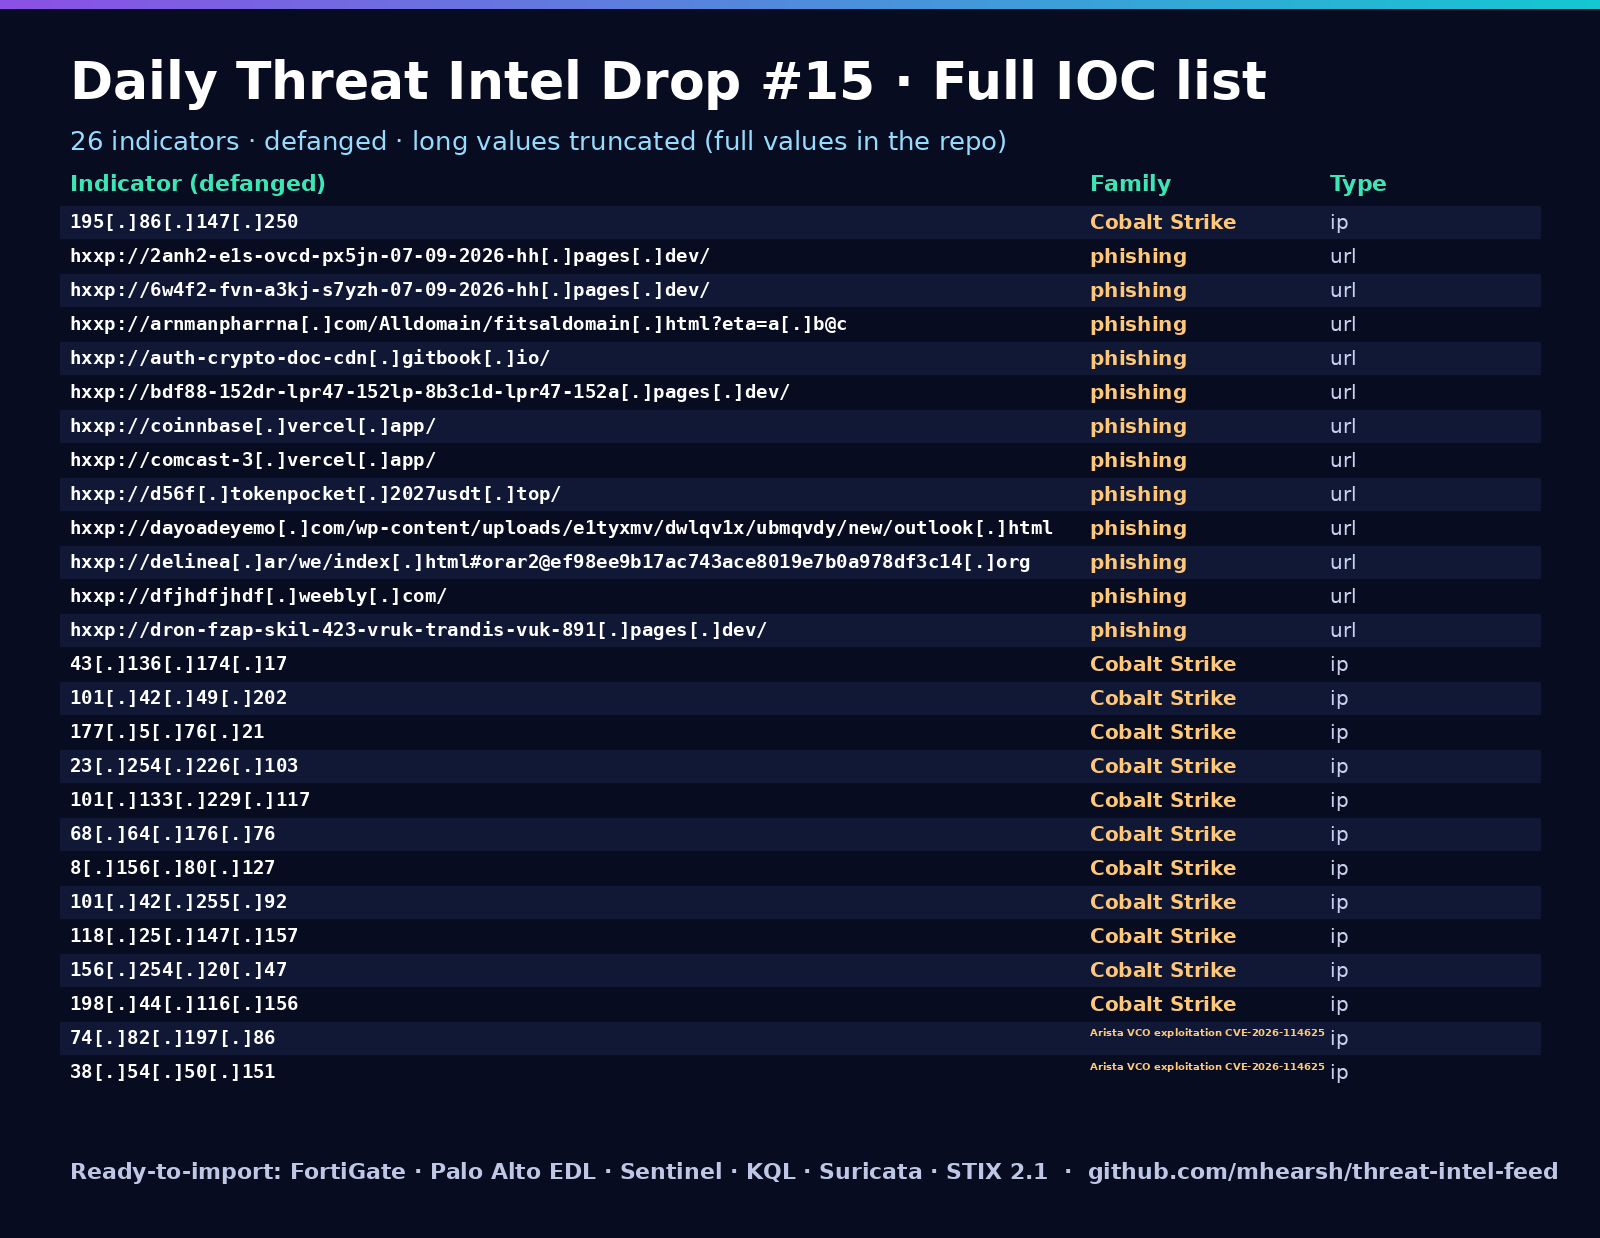
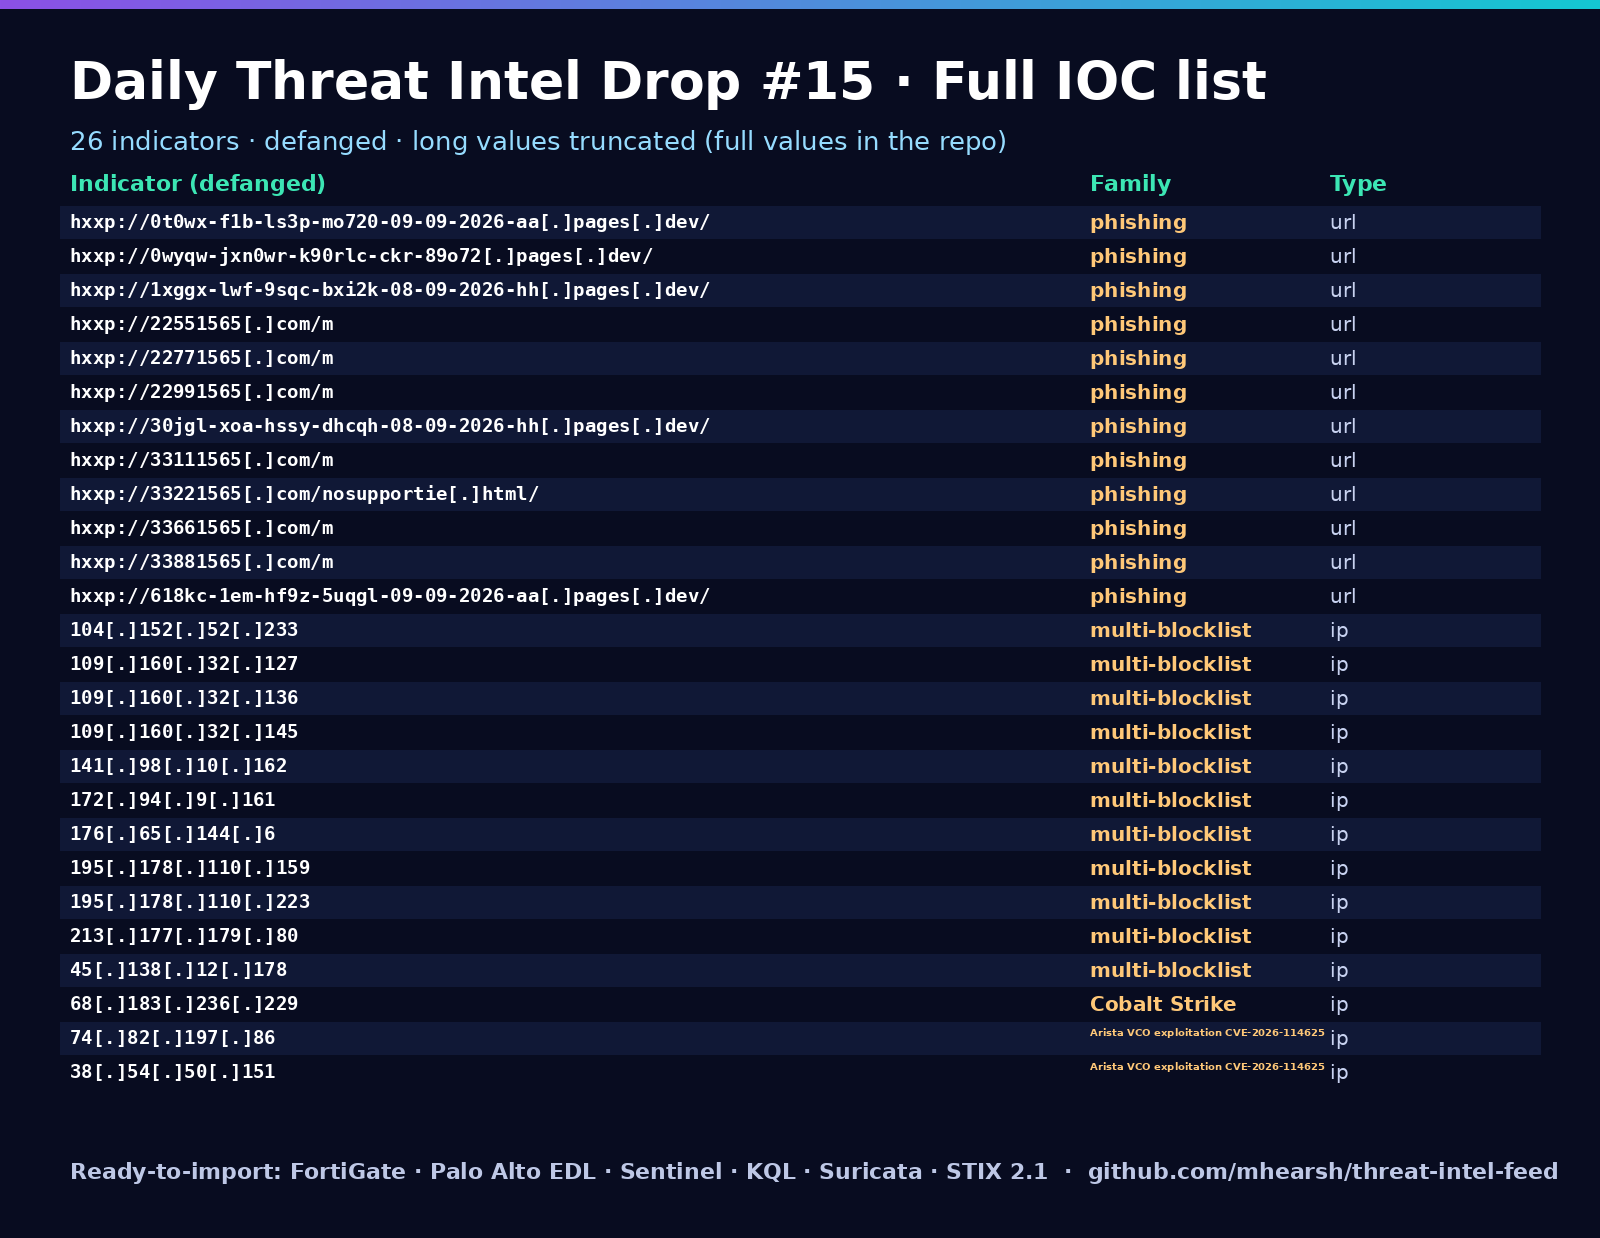
Drop #15 (2026-11-07): refresh 26 IOCs
Replace the stale daily drop CSV and cards with the approved refresh and update the existing index row.

Changed region(s): [[0.0312, 0.1535, 0.6562, 0.8288], [0.6875, 0.4911, 0.7812, 0.7981], [0.6875, 0.1535, 0.7812, 0.1842]]

diff --git a/drops/README.md b/drops/README.md
@@ -38,4 +38,4 @@ License: see [LICENSE](../LICENSE).
 | 2026-11-04 | #12 | 50 | Vidar, AMOS, Remcos | [CSV](2026/11/2026-11-04-drop-12.csv) | [summary](2026/11/2026-11-04-drop-12.png) · [list](2026/11/2026-11-04-drop-12-list.png) |
 | 2026-11-05 | #13 | 50 | Unknown malware, AMOS, ACR Stealer | [CSV](2026/11/2026-11-05-drop-13.csv) | [summary](2026/11/2026-11-05-drop-13.png) · [list](2026/11/2026-11-05-drop-13-list.png) |
 | 2026-11-06 | #14 | 26 | phishing, multi-blocklist, Cobalt Strike | [CSV](2026/11/2026-11-06-drop-14.csv) | [summary](2026/11/2026-11-06-drop-14.png) · [list](2026/11/2026-11-06-drop-14-list.png) |
-| 2026-11-07 | #15 | 26 | Cobalt Strike, phishing, Arista VCO exploitation CVE-2026-114625 | [CSV](2026/11/2026-11-07-drop-15.csv) | [summary](2026/11/2026-11-07-drop-15.png) · [list](2026/11/2026-11-07-drop-15-list.png) |
+| 2026-11-07 | #15 | 26 | phishing, multi-blocklist, Arista VCO exploitation CVE-2026-114625 | [CSV](2026/11/2026-11-07-drop-15.csv) | [summary](2026/11/2026-11-07-drop-15.png) · [list](2026/11/2026-11-07-drop-15-list.png) |
